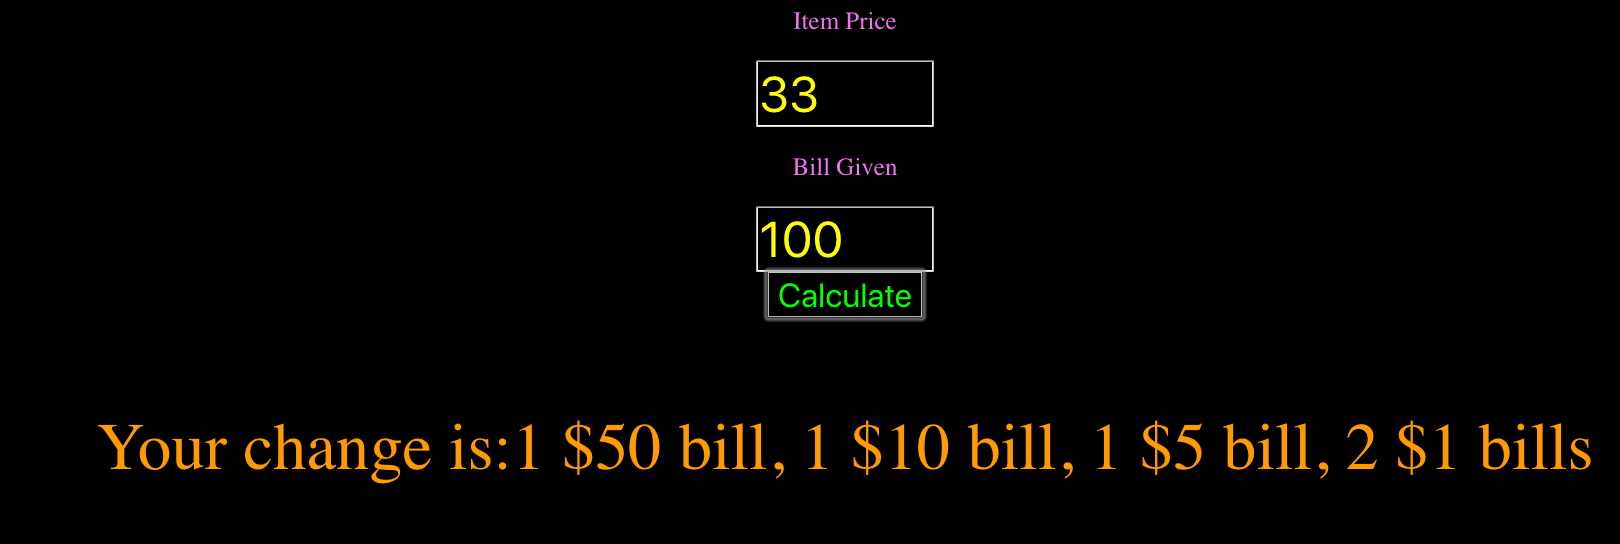
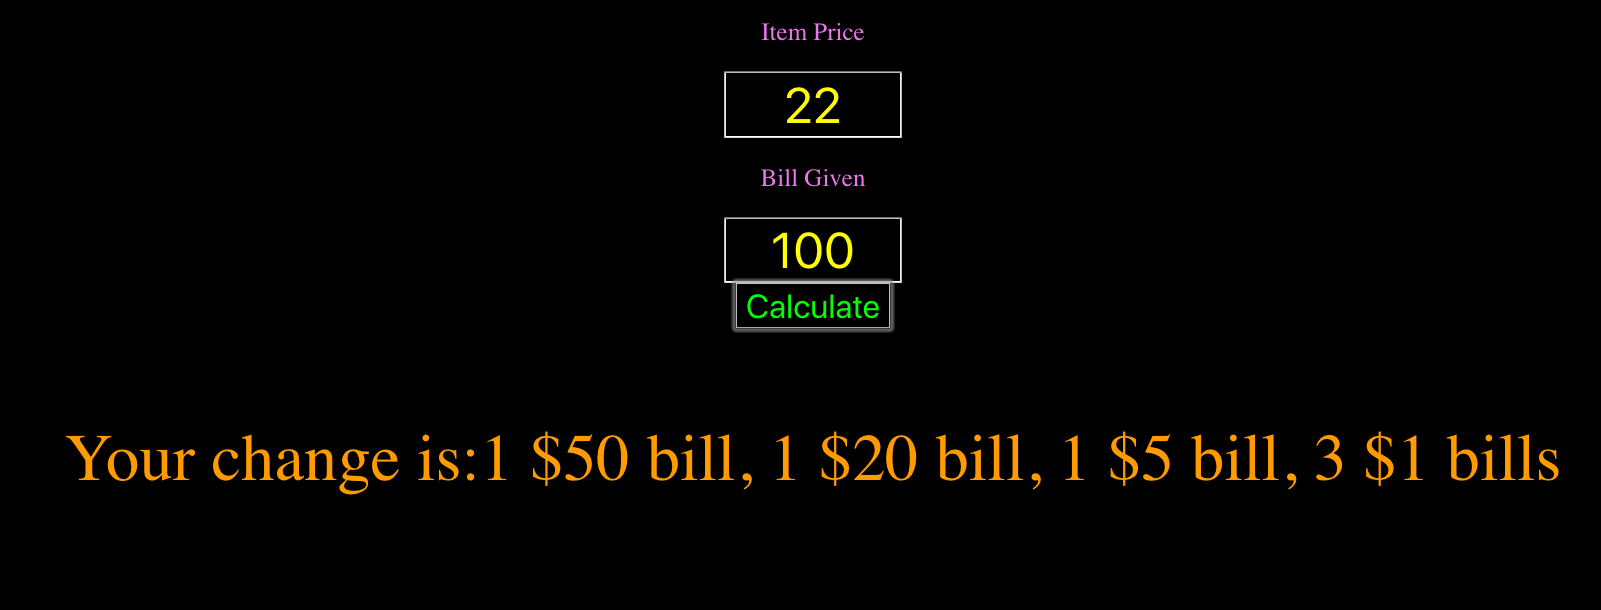
.

diff --git a/js/main.js b/js/main.js
@@ -75,7 +75,7 @@ function moneyBack(itemPrice, billGiven) {
 
 	returnedMoney = returnedMoney.slice(0, -2);
 
-	let returnedMessage = 'Your change is:' + returnedMoney;
+	let returnedMessage = 'Your change is: ' + returnedMoney;
 
 	document.getElementById('answerMessage').innerHTML = returnedMessage;
 

diff --git a/css/homeStyling.css b/css/homeStyling.css
@@ -7,6 +7,7 @@ body{
 	color:
 	background-color: black;
 	font-size: 30Pt;
+	text-align: center;
 }
 
 .button{
